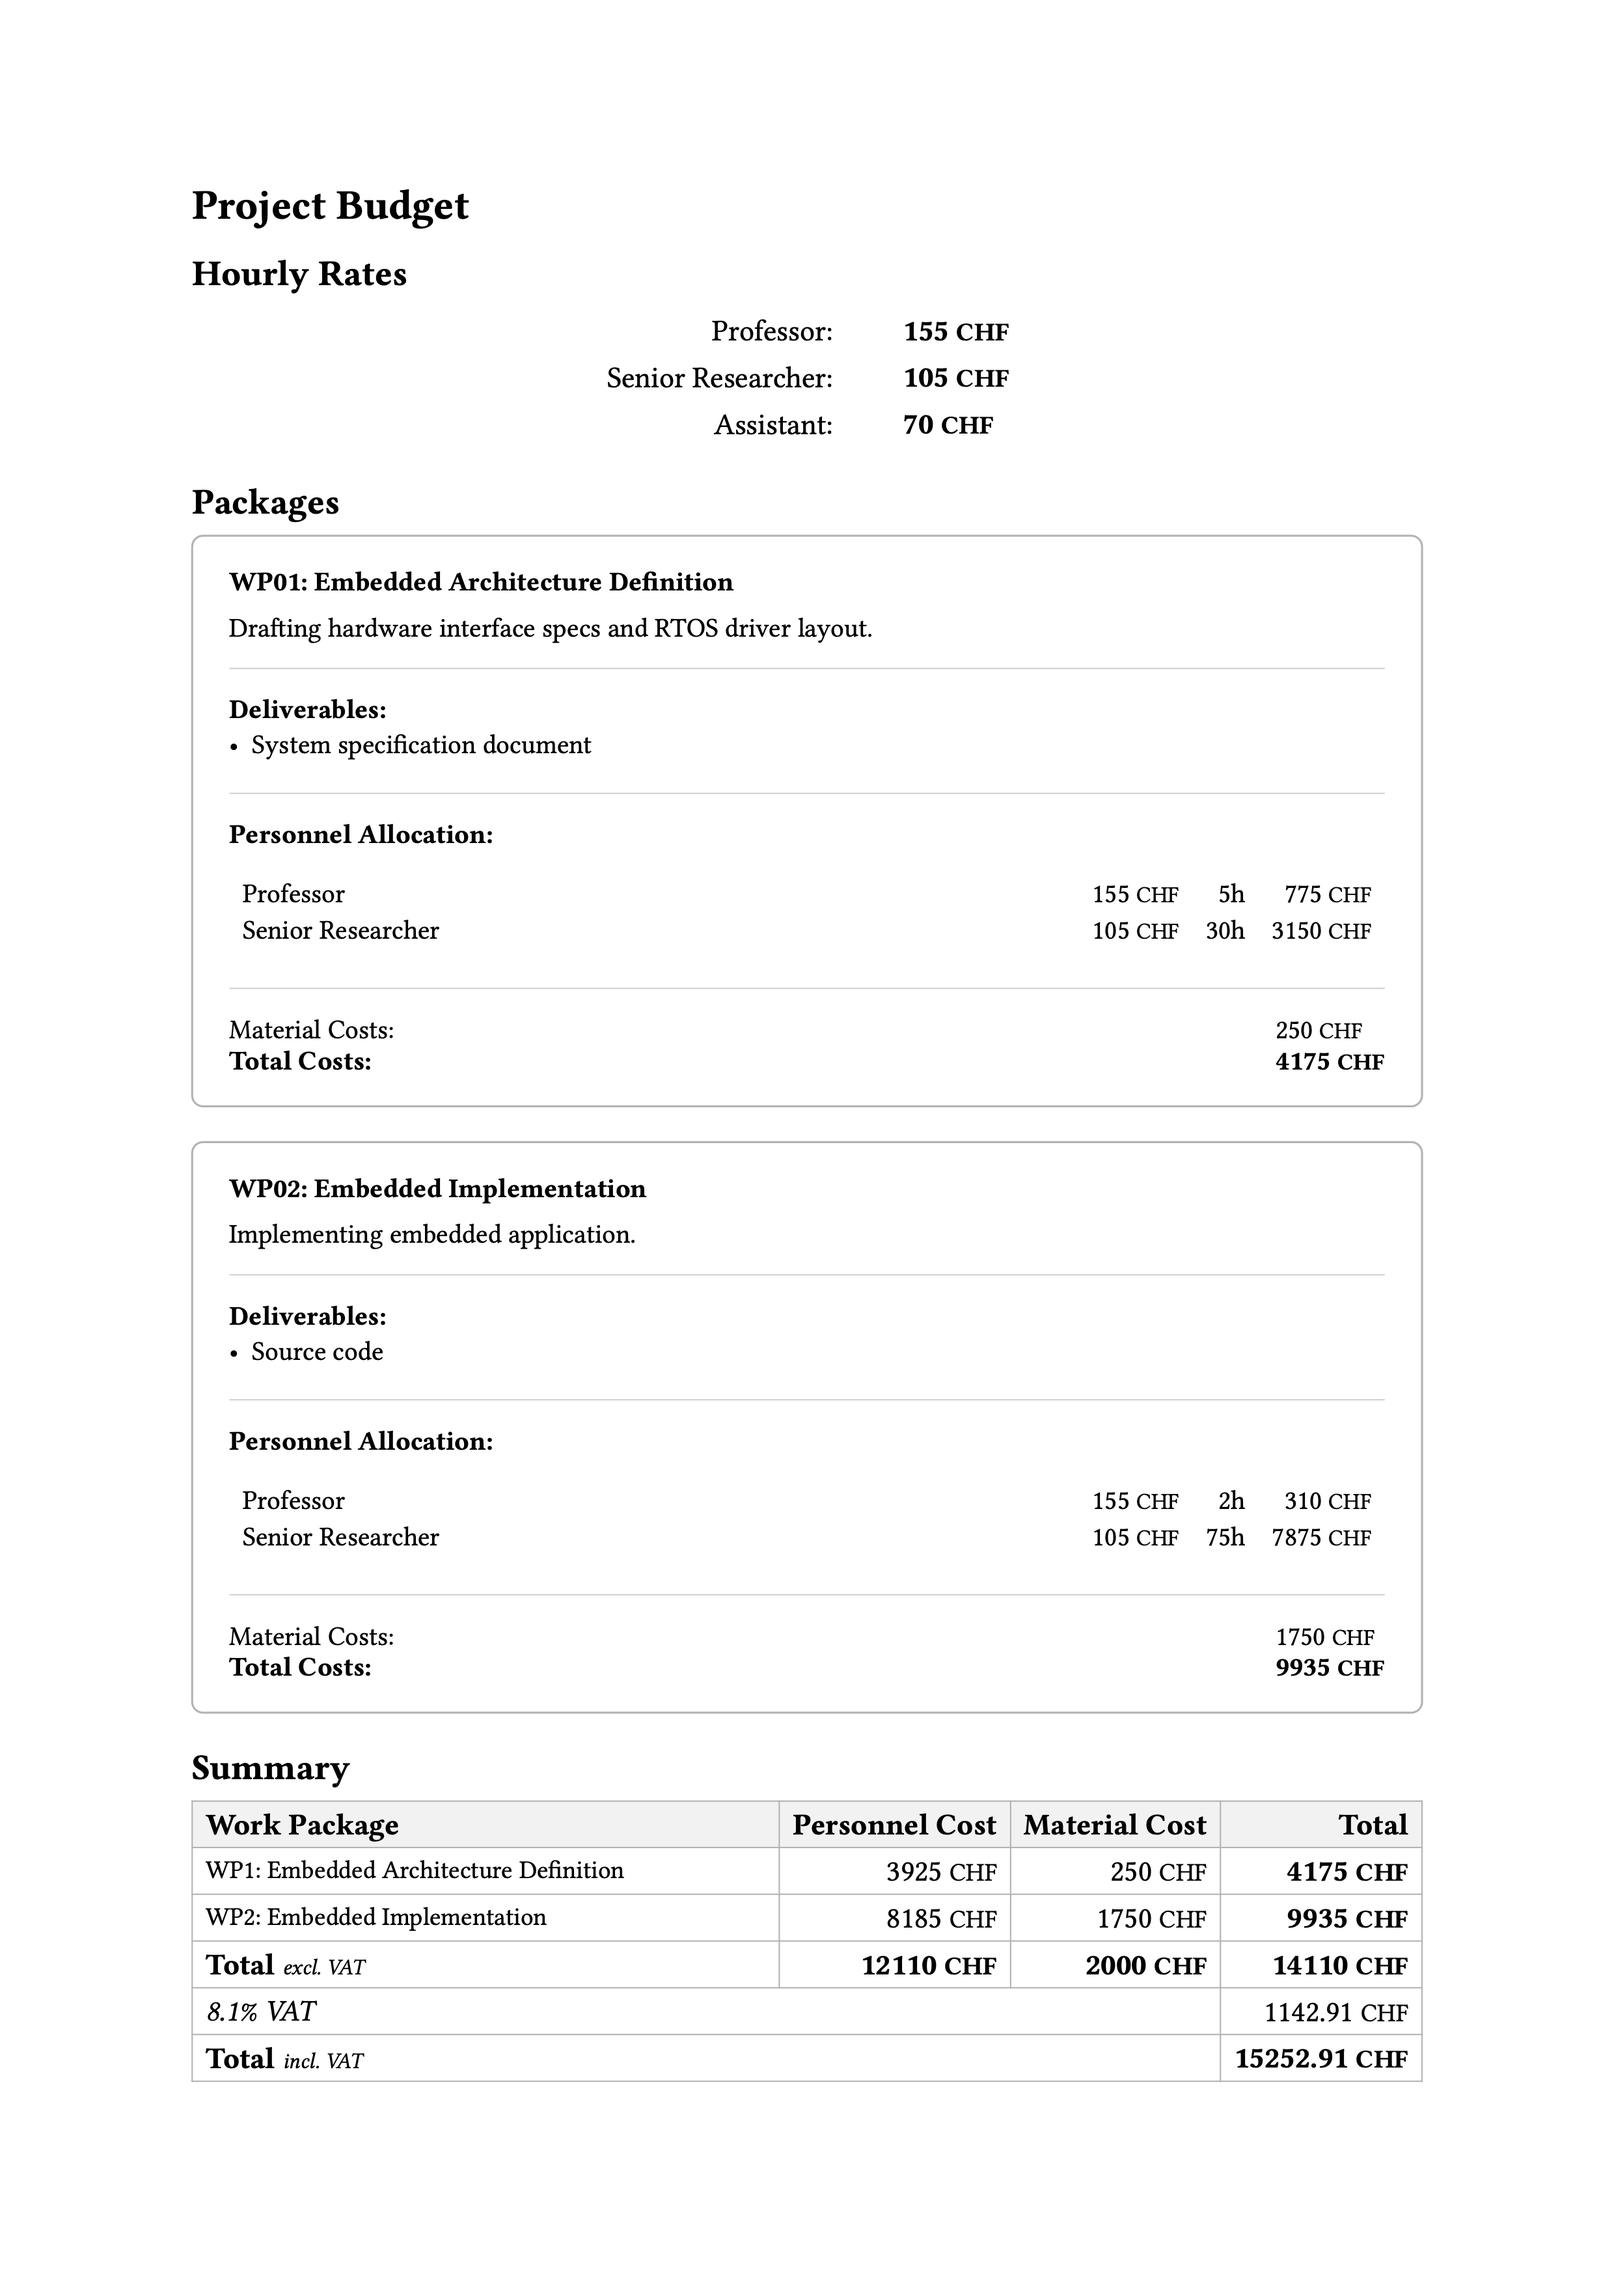
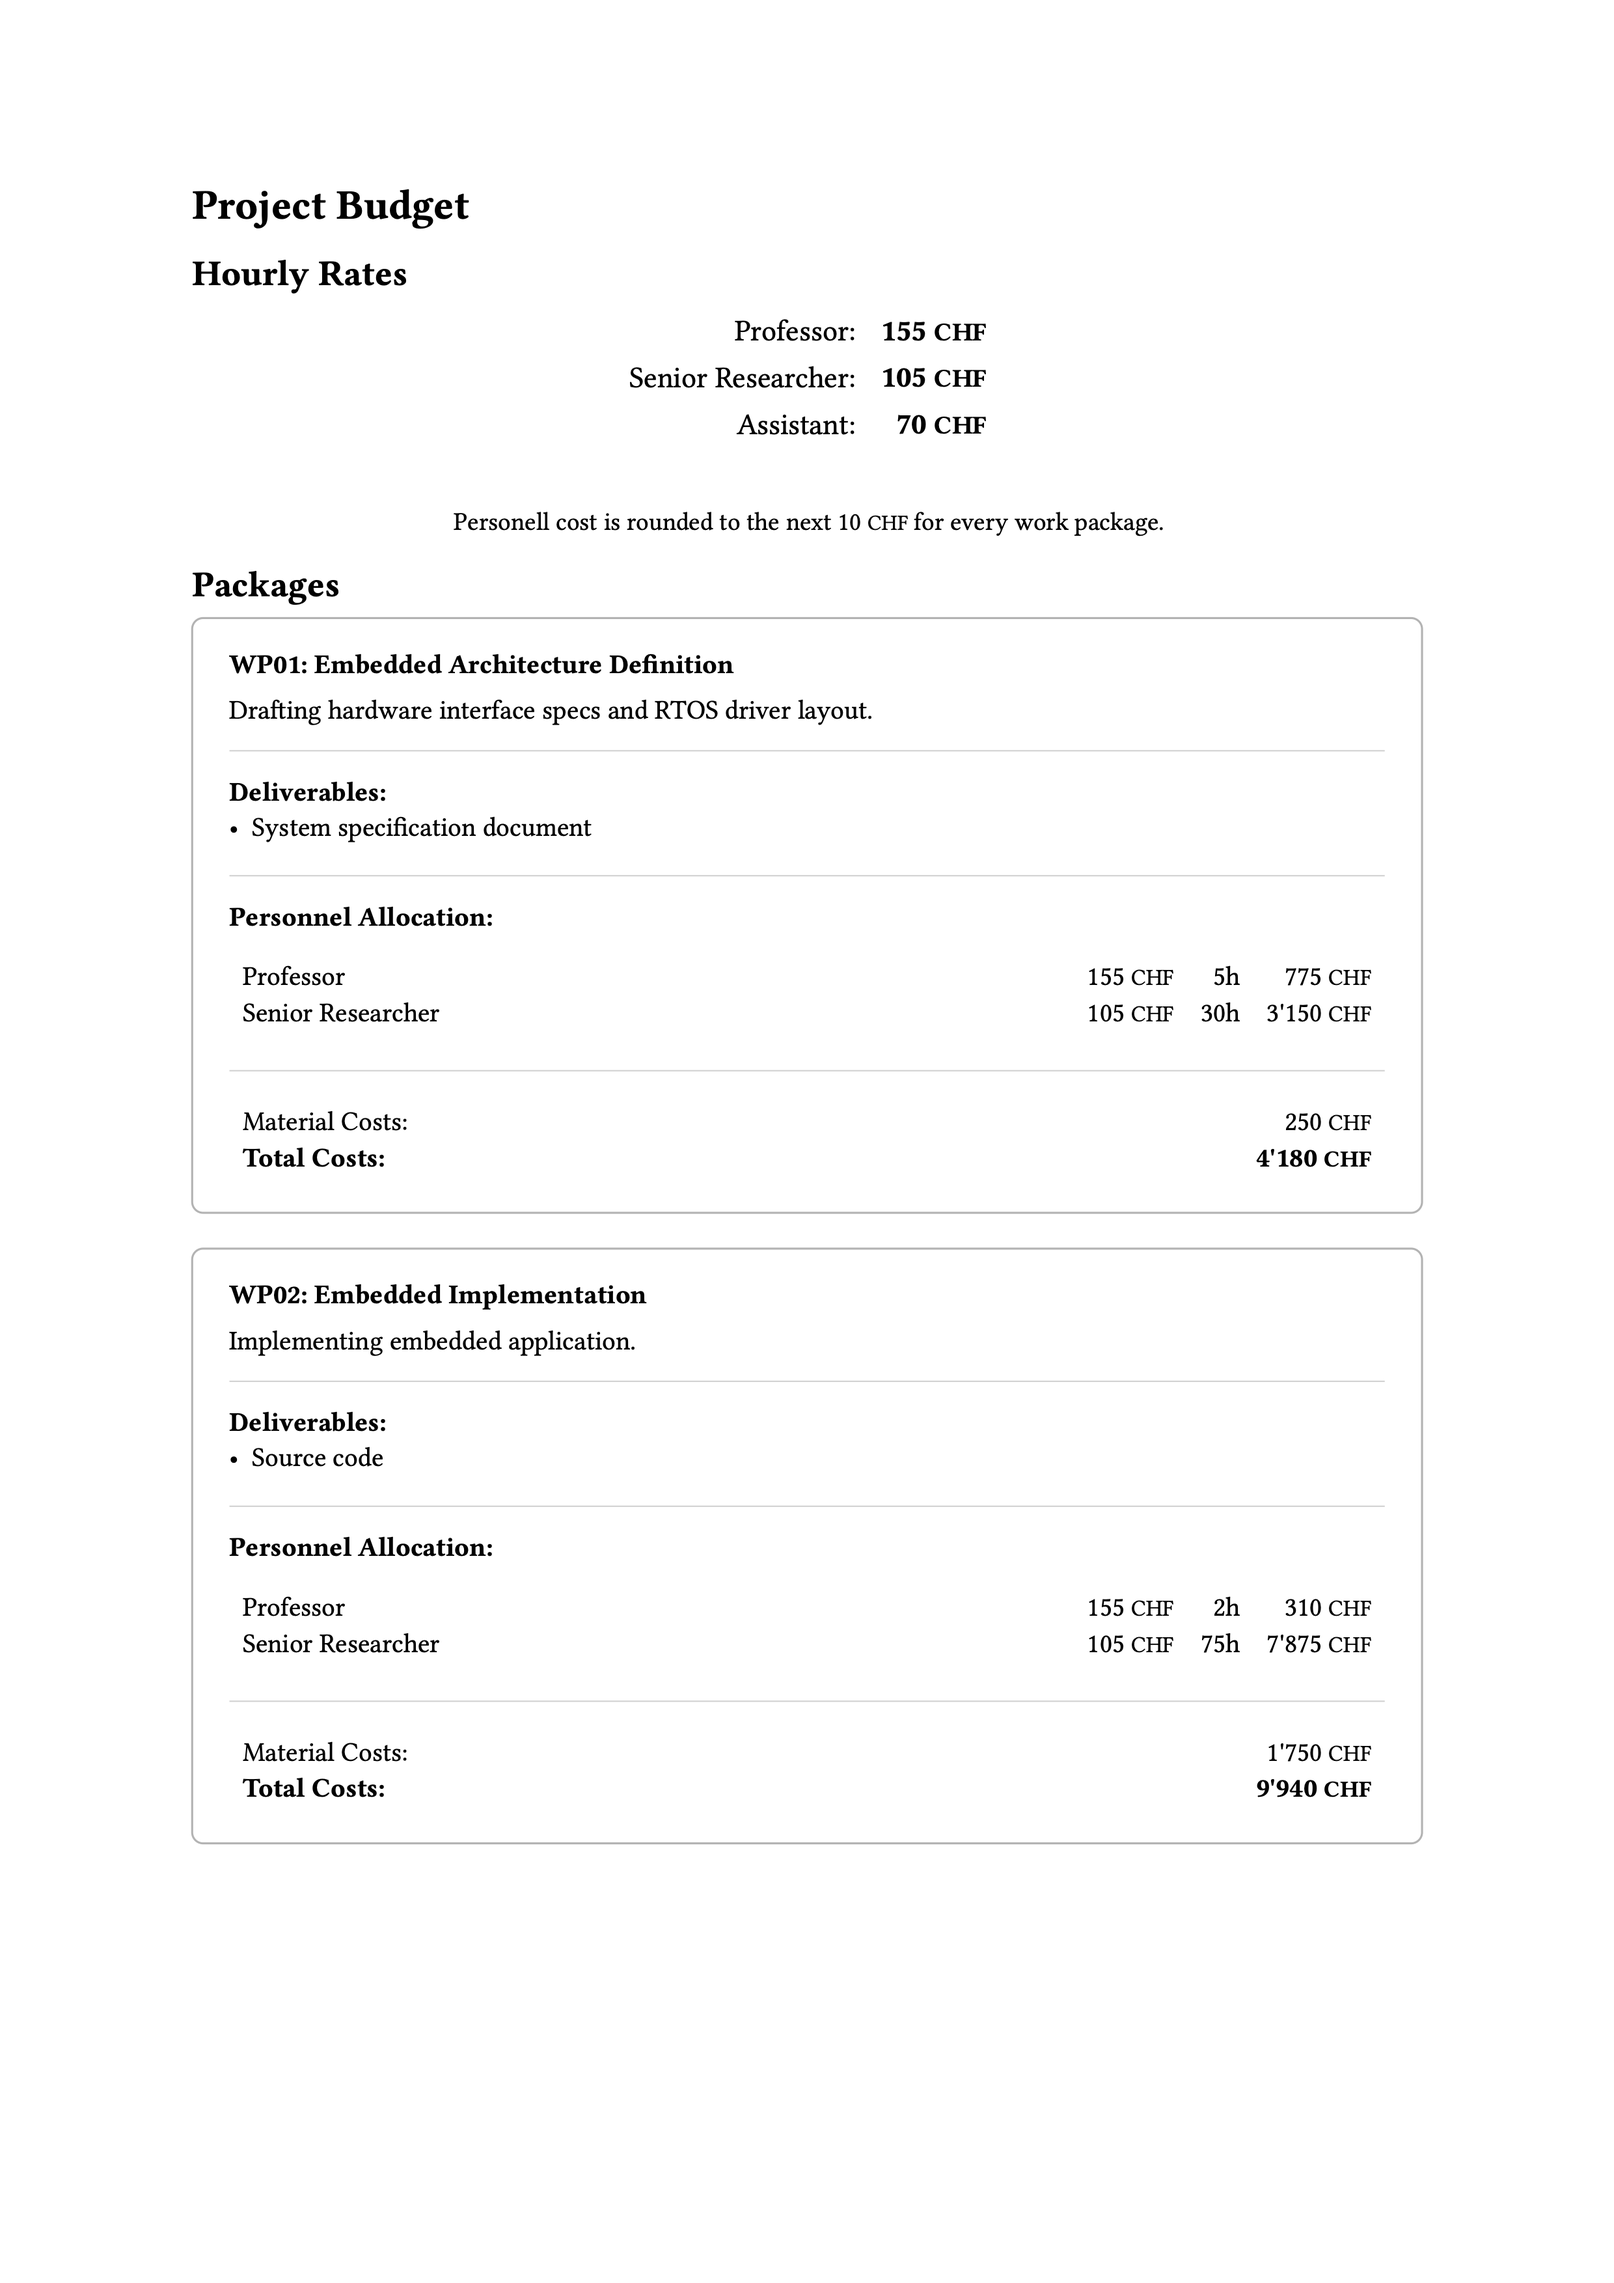
Updated documentation

diff --git a/README.md b/README.md
@@ -4,6 +4,7 @@ A clean Typst package for managing engineering proposals, academic grant applica
 Define work packages with role-based hours and material budgets, and render aggregate cost tables automatically.
 
 ![](example/thumbnail.png)
+![](example/thumbnail2.png)
 
 ## Installation
 
@@ -48,7 +49,10 @@ git clone https://github.com/cm0x4D/Typst-work-package.git "%APPDATA%\typst\pack
     "Professor": 155,
     "Senior Researcher": 105,
     "Assistant": 70,
-  )
+  ),
+  thousand-seperator: "'",
+  digits: 0,
+  round: 10
 )
 
 = Project Budget
@@ -85,7 +89,12 @@ git clone https://github.com/cm0x4D/Typst-work-package.git "%APPDATA%\typst\pack
   ),
 )
 
+#pagebreak()
+
 == Summary
 
-#wp.summary()
+#wp.summary(
+    discount: 1000,
+    round: 1000
+)
 ```
